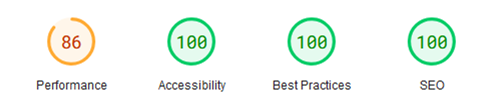
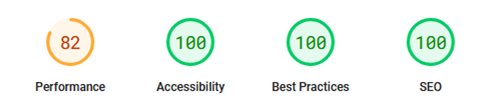
Add psi image references

diff --git a/TESTING.md b/TESTING.md
@@ -11,7 +11,6 @@ The main README documentation can be found under [README.md](https://github.com/
 3. [Cross-browser Testing](#cross-browser-testing)
 4. [Automated Testing](#automated-testing)
 5. [Significant Bugs](#significant-bugs)
-6. [Other Technical Difficulties](#other-technical-difficulties)
 
 ## User Story Testing
 
@@ -199,10 +198,10 @@ Following fixing the errors and warnings above, the pages were tested again and 
 
 #### Results
 
-[Homepage](https://validator.w3.org/nu/?doc=https%3A%2F%2Fjordancrouch.github.io%2Fthere-and-back-again%2Findex.html)
-[Journals](https://validator.w3.org/nu/?doc=https%3A%2F%2Fjordancrouch.github.io%2Fthere-and-back-again%2Fjournals.html)
-[Gallery](https://validator.w3.org/nu/?doc=https%3A%2F%2Fjordancrouch.github.io%2Fthere-and-back-again%2Fgallery.html)
-[Contact](https://validator.w3.org/nu/?doc=https%3A%2F%2Fjordancrouch.github.io%2Fthere-and-back-again%2Fcontact.html)
+- [Homepage](https://validator.w3.org/nu/?doc=https%3A%2F%2Fjordancrouch.github.io%2Fthere-and-back-again%2Findex.html)
+- [Journals](https://validator.w3.org/nu/?doc=https%3A%2F%2Fjordancrouch.github.io%2Fthere-and-back-again%2Fjournals.html)
+- [Gallery](https://validator.w3.org/nu/?doc=https%3A%2F%2Fjordancrouch.github.io%2Fthere-and-back-again%2Fgallery.html)
+- [Contact](https://validator.w3.org/nu/?doc=https%3A%2F%2Fjordancrouch.github.io%2Fthere-and-back-again%2Fcontact.html)
 
 ### CSS Validation
 
@@ -222,29 +221,45 @@ Upon checking the CSS again with the validation service, no errors were shown an
 
 All pages of the website were tested using Google PSI and produced the following results:
 
-#### Home
+**Home**
 
 [Mobile](https://pagespeed.web.dev/analysis/https-jordancrouch-github-io-there-and-back-again-index-html/knkvvn9z1j?form_factor=mobile)
 
+![Homepage mobile psi results - first test](https://raw.githubusercontent.com/jordancrouch/there-and-back-again/refs/heads/main/assets/pagespeed/psi-home-mobile-1.png)
+
 [Desktop](https://pagespeed.web.dev/analysis/https-jordancrouch-github-io-there-and-back-again-index-html/knkvvn9z1j?form_factor=desktop)
 
-#### Journals
+![Homepage desktop psi resilts - first test](https://raw.githubusercontent.com/jordancrouch/there-and-back-again/refs/heads/main/assets/pagespeed/psi-home-mobile-1.png)
+
+**Journals**
 
 [Mobile](https://pagespeed.web.dev/analysis/https-jordancrouch-github-io-there-and-back-again-journals-html/wjub0frwnb?form_factor=mobile)
 
+![Journals page mobile psi results - first test](https://raw.githubusercontent.com/jordancrouch/there-and-back-again/refs/heads/main/assets/pagespeed/psi-journals-mobile-1.png)
+
 [Desktop](https://pagespeed.web.dev/analysis/https-jordancrouch-github-io-there-and-back-again-journals-html/wjub0frwnb?form_factor=desktop)
 
-#### Gallery
+![Journals page desktop psi results - first test](https://raw.githubusercontent.com/jordancrouch/there-and-back-again/refs/heads/main/assets/pagespeed/psi-journals-desktop-1.png)
+
+**Gallery**
 
 [Mobile](https://pagespeed.web.dev/analysis/https-jordancrouch-github-io-there-and-back-again-gallery-html/bfpq1bvymc?form_factor=mobile)
 
+![Gallery page mobile psi results - first test](https://raw.githubusercontent.com/jordancrouch/there-and-back-again/refs/heads/main/assets/pagespeed/psi-gallery-mobile-1.png)
+
 [Desktop](https://pagespeed.web.dev/analysis/https-jordancrouch-github-io-there-and-back-again-gallery-html/bfpq1bvymc?form_factor=desktop)
 
-#### Contact
+![Gallery page desktop psi results - first test](https://raw.githubusercontent.com/jordancrouch/there-and-back-again/refs/heads/main/assets/pagespeed/psi-gallery-desktop-1.png)
+
+**Contact**
 
 [Mobile](https://pagespeed.web.dev/analysis/https-jordancrouch-github-io-there-and-back-again-contact-html/su0784ukcj?form_factor=mobile)
 
+![Contact page mobile psi results - first test](https://raw.githubusercontent.com/jordancrouch/there-and-back-again/refs/heads/main/assets/pagespeed/psi-contact-mobile-1-1.png)
+
 [Desktop](https://pagespeed.web.dev/analysis/https-jordancrouch-github-io-there-and-back-again-contact-html/su0784ukcj?form_factor=desktop)
+
+![Contact page desktop psi results - first test](https://raw.githubusercontent.com/jordancrouch/there-and-back-again/refs/heads/main/assets/pagespeed/psi-contact-desktop-1.png)
 
 #### Largest Contentful Paint
 
@@ -268,12 +283,72 @@ Similar to largest contentful paint, on mobile there are some images that are re
 
 Images identified as having missing explicit width and height attributes had these values added to resolve report. This caused some of the images to appear stretched vertically, but by adding the auto height Bootstrap utility class to the images to make sure they scale at the correct aspect ratio to their width, they then displayed correctly.
 
-####
+#### Accssibility
+
+Heading elements were identified to not be in a sequentuially-descending order. To fix this, the heading tags were removed, and replaced with Bootstrap utility classes to replicate the heading element size and style, in order to resolve this error and not make any alterations to the appearance of the text.
+
+#### Final Results
+
+Each page was re-tested after implemented the above steps with the following results:
+
+**Home**
+
+[Mobile](https://pagespeed.web.dev/analysis/https-jordancrouch-github-io-there-and-back-again-index-html/9xbnp11xdo?form_factor=mobile)
+
+![Homepage mobile psi results - second test](https://raw.githubusercontent.com/jordancrouch/there-and-back-again/refs/heads/main/assets/pagespeed/psi-home-mobile-2.png)
+
+[Desktop](https://pagespeed.web.dev/analysis/https-jordancrouch-github-io-there-and-back-again-index-html/9xbnp11xdo?form_factor=desktop)
+
+![Homepage desktop psi results - second test](https://raw.githubusercontent.com/jordancrouch/there-and-back-again/refs/heads/main/assets/pagespeed/psi-home-desktop-2.png)
+
+**Journals**
+
+[Mobile](https://pagespeed.web.dev/analysis/https-jordancrouch-github-io-there-and-back-again-journals-html/fj3sr5ca6n?form_factor=mobile)
+
+![Journals page mobile psi results - second test](https://raw.githubusercontent.com/jordancrouch/there-and-back-again/refs/heads/main/assets/pagespeed/psi-journals-mobile-2.png)
+
+[Desktop](https://pagespeed.web.dev/analysis/https-jordancrouch-github-io-there-and-back-again-journals-html/fj3sr5ca6n?form_factor=desktop)
+
+![Journals page desktop psi results - second test](https://raw.githubusercontent.com/jordancrouch/there-and-back-again/refs/heads/main/assets/pagespeed/psi-journals-desktop-2.png)
+
+**Gallery**
+
+[Mobile](https://pagespeed.web.dev/analysis/https-jordancrouch-github-io-there-and-back-again-gallery-html/80ja2745cf?form_factor=mobile)
+
+![Gallery page mobile psi results - second test](https://raw.githubusercontent.com/jordancrouch/there-and-back-again/refs/heads/main/assets/pagespeed/psi-gallery-mobile-2.png)
+
+[Desktop](https://pagespeed.web.dev/analysis/https-jordancrouch-github-io-there-and-back-again-gallery-html/80ja2745cf?form_factor=desktop)
+
+![Gallery page desktop psi results - second test](https://raw.githubusercontent.com/jordancrouch/there-and-back-again/refs/heads/main/assets/pagespeed/psi-gallery-desktop-2.png)
+
+**Contact**
+
+[Mobile](https://pagespeed.web.dev/analysis/https-jordancrouch-github-io-there-and-back-again-contact-html/y1g2syulks?form_factor=mobile)
+
+![Contact page mobile psi results - second test](https://github.com/jordancrouch/there-and-back-again/blob/main/assets/pagespeed/psi-contact-mobile-2.png)
+
+[Desktop](https://pagespeed.web.dev/analysis/https-jordancrouch-github-io-there-and-back-again-contact-html/y1g2syulks?form_factor=desktop)
+
+![Contact page desktop psi results - second test](https://github.com/jordancrouch/there-and-back-again/blob/main/assets/pagespeed/psi-contact-desktop-2.png)
 
 ## Significant Bugs
 
-1. Home hero image parallax effect
+### Home hero image parallax effect
 
 I found that the home hero background image was not filling the height of the header on scroll, which would reveal some of the dark blue background behind, and at a point the image would 'jump' and increase in size. On Firefox (Android), this seemed to be a result of the browser navigation bar disappearing on scroll, but a similar issue was also present on Chrome (Android), despite not having the browser navigation at the bottom of the page. This issue was not as noticeable in Safar/Firefox/Chrome on iOS, but I decided to remove the parallax scroll effect on mobile and tablet devices to mitigate this issue.
 
-## Other Technical Difficulties
+### Lightbox browser scrollbar
+
+When the lightbox was opened, the vertical scroll (overflow) of the browser was hidden. This wasn't noticeable on Firefox, as the scrollbar is very narrow. However, this created a blank space on Chrome, as the scrollbar is much wider, so there was an empty space. To resolve this, vertical scroll (overflow-y) is forced on the html element using the class that lightbox adds: fslightbox-open.
+
+#### Masonry gallery
+
+When adding images to the masonry gallery, I found that the masonry grid didn't actually seem to be working. After looking further into the documentation, I realised that I hadn't added the imageslayout javascript that I was attempting to use. Further to this, I noticed some console errors, and these referenced things not on the gallery page, such as bootstrap modal. This led me to add additional checks to ensure that the elements existed before any functions were being called, and this was applied on all pages that the site's internal javascript was being loaded.
+
+### Journal article layout
+
+After adding the images to the journal article cards, they no longer aligned as intended, so that there was a consistent and equal horizontal and vertical gap between all articles, and that the smaller journal artical cards always aligned to the top and bottom of the larger featured article. This required some additional CSS styling to be added, as I wasn't able to achieve this purely with Bootstrap.
+
+---
+
+[Click here](https://github.com/jordancrouch/there-and-back-again/blob/main/README.md) to return to the main README.md.
